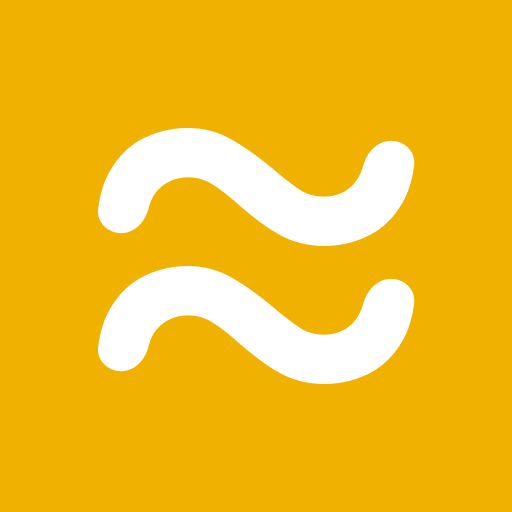
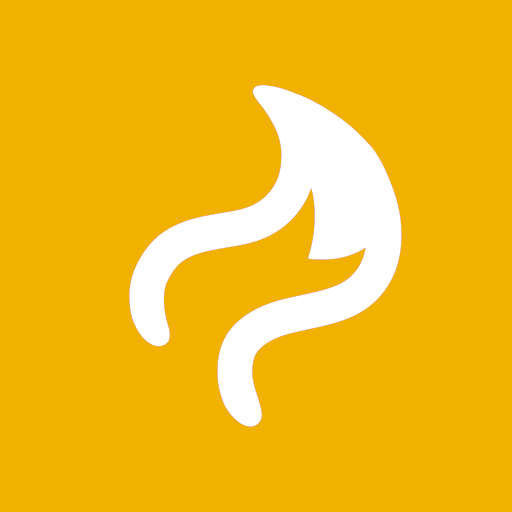
chore(various): Update some hard-coded strings to use FluxFur and some FluxFur assets

Changed region(s): [[0.1875, 0.1562, 0.8125, 0.8438]]

diff --git a/fluxer_api/src/api/instance/InstanceConfigRepository.ts b/fluxer_api/src/api/instance/InstanceConfigRepository.ts
@@ -403,7 +403,7 @@ export function getDefaultPremiumProductName(): string {
 function getDefaultAppPublicConfig(): InstanceAppPublicConfig {
 	return {
 		branding: {
-			product_name: Config.instance.branding.productName || 'Fluxer',
+			product_name: Config.instance.branding.productName || 'FluxFur',
 			icon_url: normalizeOptionalString(Config.instance.branding.iconUrl),
 			symbol_url: normalizeOptionalString(Config.instance.branding.symbolUrl),
 			logo_url: normalizeOptionalString(Config.instance.branding.logoUrl),

diff --git a/fluxer_api/pkgs/email/src/email_i18n/EmailI18n.ts b/fluxer_api/pkgs/email/src/email_i18n/EmailI18n.ts
@@ -10,9 +10,9 @@ import type {EmailTemplate, EmailTemplateKey} from '@pkgs/email/src/email_i18n/E
 
 const DEFAULT_LOCALE = 'en-US';
 const DEFAULT_EMAIL_TEMPLATE_VARIABLES = {
-	product_name: 'Fluxer',
-	appeals_email: 'appeals@fluxer.app',
-	safety_email: 'safety@fluxer.app',
+	product_name: 'FluxFur',
+	appeals_email: 'appeals@fluxfur.com',
+	safety_email: 'safety@fluxfur.com',
 } satisfies Record<string, string>;
 
 function formatEmailDate(value: unknown, locale: string, style: string | null): string {

diff --git a/packages/schema/src/primitives/UserValidators.ts b/packages/schema/src/primitives/UserValidators.ts
@@ -86,7 +86,7 @@ export const UsernameType = withOpenApiType(
 		}, ValidationErrorCodes.USERNAME_RESERVED_VALUE)
 		.refine((value) => {
 			const lowerValue = value.toLowerCase();
-			return !lowerValue.includes('fluxer') && !lowerValue.includes('system message');
+			return !lowerValue.includes('fluxer') && !lowerValue.includes('system message') && !lowerValue.includes('fluxfur');
 		}, ValidationErrorCodes.USERNAME_CANNOT_CONTAIN_RESERVED_TERMS),
 	'UsernameType',
 );

diff --git a/fluxer_app/src/features/app/config/I18nDisplayConstants.ts b/fluxer_app/src/features/app/config/I18nDisplayConstants.ts
@@ -19,7 +19,7 @@ export const GOOGLE_PLAY_NAME = 'Google Play';
 export const PIX_PAYMENT_METHOD = 'Pix';
 export const UPI_PAYMENT_METHOD = 'UPI';
 export const BLIK_PAYMENT_METHOD = 'BLIK';
-export const SUPPORT_EMAIL = 'support@fluxer.app';
+export const SUPPORT_EMAIL = 'support@fluxfur.com';
 export const SUPPORT_EMAIL_MAILTO = `mailto:${SUPPORT_EMAIL}`;
 export const I18N_EMAIL = 'i18n@fluxer.app';
 export const I18N_EMAIL_MAILTO = `mailto:${I18N_EMAIL}`;

diff --git a/fluxer_api/src/api/donation/services/DonationCheckoutService.ts b/fluxer_api/src/api/donation/services/DonationCheckoutService.ts
@@ -21,7 +21,7 @@ type CheckoutSessionMode = CheckoutSessionCreateParams['mode'];
 type CheckoutSessionLineItem = NonNullable<CheckoutSessionCreateParams['line_items']>[number];
 type CheckoutSessionLocale = NonNullable<CheckoutSessionCreateParams['locale']>;
 
-const PRODUCT_NAME = 'Fluxer';
+const PRODUCT_NAME = 'FluxFur';
 
 const STRIPE_CHECKOUT_LOCALES: Record<string, CheckoutSessionLocale> = {
 	bg: 'bg',

diff --git a/fluxer_app/src/features/devtools/utils/CommandUtils.ts b/fluxer_app/src/features/devtools/utils/CommandUtils.ts
@@ -209,7 +209,7 @@ export function doesCommandSendCurrentChannelMessage(command: ParsedCommand): bo
 export function createSystemMessage(channelId: string, content: string): Message {
 	const fluxerbotUser = new User({
 		id: FLUXERBOT_ID,
-		username: 'Fluxerbot',
+		username: 'Fluffbot',
 		discriminator: '0000',
 		global_name: null,
 		avatar: null,

diff --git a/packages/instance_bootstrap/src/__tests__/DiscoveryFixtures.ts b/packages/instance_bootstrap/src/__tests__/DiscoveryFixtures.ts
@@ -40,7 +40,7 @@ export const DEPLOYED_OFFICIAL_DOCUMENT = {
 	push: {public_vapid_key: 'BPublicVapidKey'},
 	app_public: {
 		branding: {
-			product_name: 'Fluxer',
+			product_name: 'FluxFur',
 			icon_url: 'https://cdn.fluxer.app/icon.png',
 			symbol_url: 'https://cdn.fluxer.app/symbol.png',
 			logo_url: 'https://cdn.fluxer.app/logo.png',

diff --git a/fluxer_app/src/features/auth/state/__fixtures__/AccountSwitchHarness.ts b/fluxer_app/src/features/auth/state/__fixtures__/AccountSwitchHarness.ts
@@ -51,7 +51,7 @@ export function installHarnessBootstrap(): void {
 				push: {public_vapid_key: null},
 				app_public: {
 					branding: {
-						product_name: 'Fluxer',
+						product_name: 'FluxFur',
 						icon_url: null,
 						symbol_url: null,
 						logo_url: null,

diff --git a/fluxer_api/src/api/user/repositories/account/crud/UserDataRepository.ts b/fluxer_api/src/api/user/repositories/account/crud/UserDataRepository.ts
@@ -67,7 +67,7 @@ export class UserDataRepository {
 			return new User({
 				...EMPTY_USER_ROW,
 				user_id: createUserID(FLUXER_BOT_USER_ID),
-				username: 'Fluxer',
+				username: 'FluxFur',
 				discriminator: 0,
 				bot: true,
 				system: true,

diff --git a/packages/config/src/ConfigLoader.ts b/packages/config/src/ConfigLoader.ts
@@ -250,7 +250,7 @@ function defaultConfig(): MasterConfig {
 		instance: {
 			self_hosted: false,
 			branding: {
-				product_name: 'Fluxer',
+				product_name: 'FluxFur',
 			},
 			setup: {
 				configured: false,

diff --git a/fluxer_app/src/features/app/config/ProductConstants.ts b/fluxer_app/src/features/app/config/ProductConstants.ts
@@ -1,4 +1,4 @@
 // SPDX-License-Identifier: AGPL-3.0-or-later
 
-export const PRODUCT_NAME = 'Fluxer';
+export const PRODUCT_NAME = 'FluxFur';
 export const DEFAULT_PREMIUM_PRODUCT_NAME = 'Plutonium';

diff --git a/fluxer_admin/src/templates/components/user_profile_badges.rs b/fluxer_admin/src/templates/components/user_profile_badges.rs
@@ -54,19 +54,19 @@ pub fn user_profile_badges(
     if flags & user_flag_bits::STAFF != 0 {
         badges.push(BadgeDef {
             icon_url: format!("{cdn}/badges/staff.svg?v=2"),
-            tooltip: "Fluxer Staff".into(),
+            tooltip: "FluxFur Staff".into(),
         });
     }
     if !is_self_hosted && flags & user_flag_bits::PARTNER != 0 {
         badges.push(BadgeDef {
             icon_url: format!("{cdn}/badges/partner.svg"),
-            tooltip: "Fluxer Partner".into(),
+            tooltip: "FluxFur Partner".into(),
         });
     }
     if !is_self_hosted && flags & user_flag_bits::BUG_HUNTER != 0 {
         badges.push(BadgeDef {
             icon_url: format!("{cdn}/badges/bug-hunter.svg"),
-            tooltip: "Fluxer Bug Hunter".into(),
+            tooltip: "FluxFur Bug Hunter".into(),
         });
     }
     if let Some(pt) = premium_type
